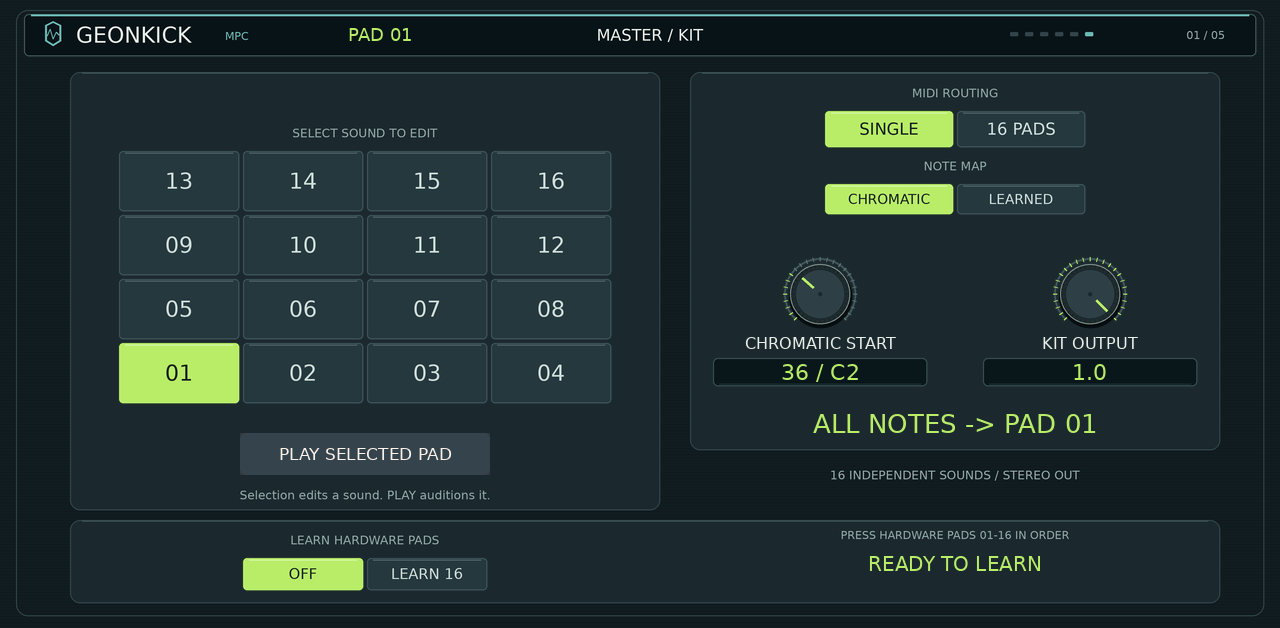
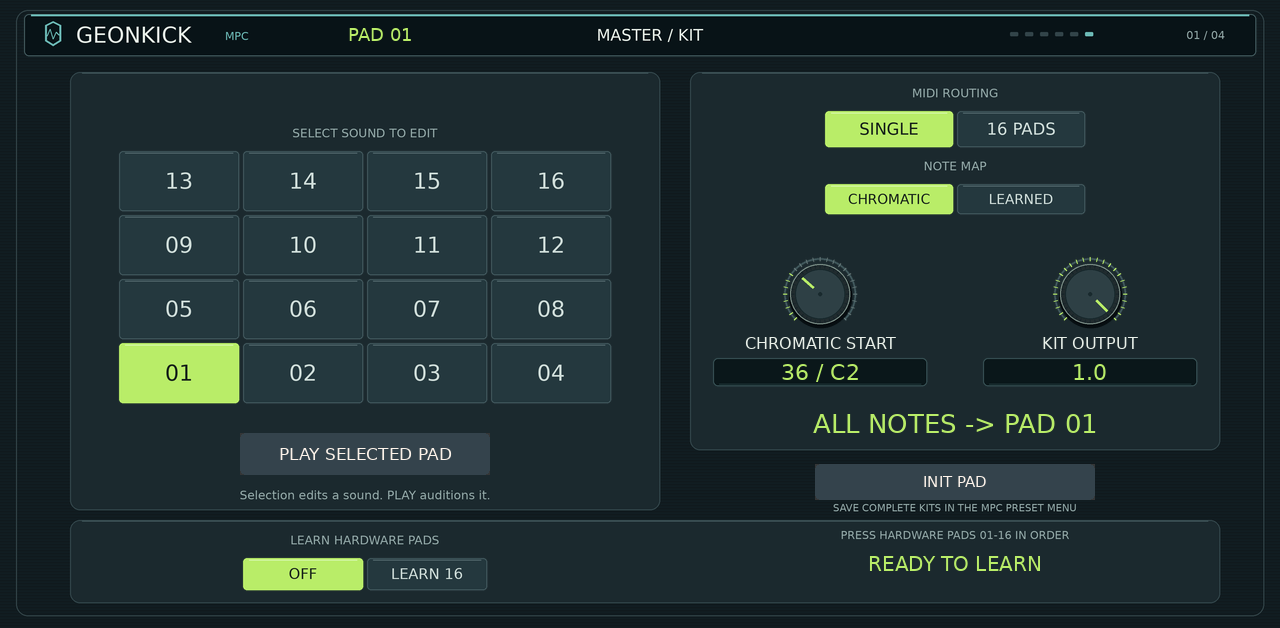
Add native MPC starter presets and complete sixteen-pad kit

Changed region(s): [[0.625, 0.7261, 0.875, 0.8169]]

diff --git a/tests/native_preset_test.c b/tests/native_preset_test.c
@@ -1,0 +1,42 @@
+/* Native factory banks and complete user snapshots through the real VST API. */
+#include "../tools/preset_host.h"
+static const char *names[9]={"0000-Init","0001-Deep Kick","0002-Tight Kick","0003-Snare","0004-Closed Hat","0005-Open Hat","0006-Metal","0007-Tom","1000-Starter Kit (16 Pads)"};
+static void midi(PresetEffect *e,int status,int note,int velocity){
+ struct {int32_t type,size,frame,flags,len,offset;unsigned char msg[4];char pad[4];} m={1,32,0,0,0,0,{status,note,velocity,0},{0}};
+ struct {int32_t n;intptr_t r;void *events[2];} ev={1,0,{&m,NULL}};e->dispatch(e,25,0,0,&ev,0);
+}
+static void audio(PresetEffect *e,float *samples,int frames){for(int n=0;n<frames;n+=128){float l[128],r[128],*out[]={l,r};int count=frames-n<128?frames-n:128;e->render(e,NULL,out,count);for(int i=0;i<count;i++){assert(isfinite(l[i])&&l[i]==r[i]);samples[n+i]=l[i];}}}
+static void signature(PresetEffect *e,float *data){char key[64];for(int c=0;c<432;c++)for(int ch=0;ch<2;ch++){snprintf(key,sizeof key,"viz_%c_%d",ch?'n':'p',c);data[c*2+ch]=preset_get(e,key);}}
+static void match_state(PresetEffect *e,const unsigned char *expected,size_t length){size_t n;unsigned char *state=preset_chunk(e,&n);assert(n==length&&!memcmp(state,expected,n));free(state);}
+static float physical(PresetEffect *e,const char *key){int i=preset_index(key);return PARAMS[i].nopts?preset_get(e,key)*(PARAMS[i].nopts-1):PARAMS[i].min+preset_get(e,key)*(PARAMS[i].max-PARAMS[i].min);}
+int main(void){
+ PresetEffect *e=preset_create();
+ for(int p=0;p<8;p++){
+  /* Loading a native preset is a complete-instance replacement, as in MPC. */
+  preset_set(e,"kit_pad",7);e->dispatch(e,2,0,6,NULL,0);preset_set(e,"kit_mode",1);preset_set(e,"kit_output",.37f);preset_set(e,"o9_sample_on",1);
+  size_t n;unsigned char *state=preset_file(names[p],&n);e->dispatch(e,24,0,n,state,0);match_state(e,state,n);
+  assert(fabsf(preset_get(e,"preset")-p/7.f)<1e-6f);assert(preset_get(e,"kit_pad")==0&&preset_get(e,"kit_mode")==0&&preset_get(e,"kit_output")==1);
+  assert(preset_get(e,"o9_sample_on")==0);
+  if(!p)assert(preset_get(e,"filter_on")==0&&preset_get(e,"drive_on")==0);
+  free(state);
+ }
+ size_t n;unsigned char *kit=preset_file(names[8],&n);e->dispatch(e,24,0,n,kit,0);match_state(e,kit,n);free(kit);
+ assert(preset_get(e,"kit_mode")==1&&physical(e,"kit_base")==36);
+ static const int programs[16]={1,2,3,4,5,6,7,7,1,3,4,5,6,6,7,0};
+ static const float tunes[16]={0,0,0,0,0,0,0,7,-5,3,7,-5,-12,7,-5,12};
+ for(int pad=0;pad<16;pad++){
+  preset_set(e,"kit_pad",pad);assert(fabsf(physical(e,"preset")-programs[pad])<1e-5f);assert(fabsf(physical(e,"tune")-tunes[pad])<1e-5f);
+  PresetEffect *ref=preset_create();float initial[864],expected[864],actual[864];signature(ref,initial);ref->dispatch(ref,2,0,programs[pad],NULL,0);preset_set(ref,"tune",tunes[pad]);
+  int ready=programs[pad]==0;for(int k=0;k<4000&&!ready;k++){signature(ref,expected);ready=memcmp(initial,expected,sizeof initial)!=0;if(!ready)usleep(2000);}assert(ready);signature(ref,expected);
+  ready=0;for(int k=0;k<4000&&!ready;k++){signature(e,actual);ready=!memcmp(actual,expected,sizeof expected);if(!ready)usleep(2000);}assert(ready);
+  float got[1024],oracle[1024];midi(e,0xb0,120,0);midi(ref,0xb0,120,0);midi(e,0x90,36+pad,127);midi(ref,0x90,60,127);audio(e,got,1024);audio(ref,oracle,1024);
+  float energy=0;for(int k=0;k<1024;k++){assert(fabsf(got[k]-oracle[k])<2e-6f);energy+=got[k]*got[k];}assert(energy>1e-5f);preset_close(ref);
+ }
+ /* Host Save serializes the complete kit, including learned layout and GUI focus. */
+ static const int notes[16]={48,50,52,53,55,57,59,36,60,62,64,65,67,69,71,72};
+ preset_set(e,"kit_learn",1);for(int i=0;i<16;i++){float block[128];midi(e,0x90,notes[i],100);audio(e,block,128);}assert(preset_get(e,"kit_mapping")==1);
+ preset_set(e,"kit_pad",14);preset_set(e,"o9_freq",999);preset_set(e,"kit_output",.63f);
+ size_t saved_size;unsigned char *saved=preset_chunk(e,&saved_size);preset_close(e);e=preset_create();e->dispatch(e,24,0,saved_size,saved,0);match_state(e,saved,saved_size);
+ assert(preset_get(e,"kit_mapping")==1&&fabsf(physical(e,"kit_pad")-14)<1e-6f&&fabsf(physical(e,"o9_freq")-999)<.01f);free(saved);preset_close(e);
+ puts("Native8 MPC starter presets +16-pad kit: true Init/full-state replacement, all16 sounds match independent legacy-program audio oracles, learned-map/user-save full close/reopen PASS");return 0;
+}

diff --git a/tools/test.py b/tools/test.py
@@ -17,8 +17,9 @@ if target=='aarch64':
     sysroot=build.LOCAL/'aarch64-linux-gnu'
     if not sysroot.exists():sysroot=build.Path('/usr/aarch64-linux-gnu')
     prefix=[qemu,'-L',sysroot]
-for source,name in [(build.MPC/'tools/host_test.c','host_test'),(build.ROOT/'tests/controls_test.c','controls_test'),(build.ROOT/'tests/realtime_test.c','realtime_test'),(build.ROOT/'tests/ui_load_test.c','ui_load_test'),(build.ROOT/'tests/touch_test.c','touch_test'),(build.ROOT/'tests/engine_test.c','engine_test'),(build.ROOT/'tests/point_editor_test.c','point_editor_test'),(build.ROOT/'tests/free_envelope_test.c','free_envelope_test'),(build.ROOT/'tests/filter_test.c','filter_test'),(build.ROOT/'tests/kit_test.c','kit_test'),(build.ROOT/'tests/sample_data_test.c','sample_data_test'),(build.ROOT/'tests/sample_engine_test.c','sample_engine_test'),(build.ROOT/'tests/sample_vst_test.c','sample_vst_test'),(build.ROOT/'tests/display_context_test.c','display_context_test'),(build.ROOT/'tests/pad_mapping_test.c','pad_mapping_test'),(build.ROOT/'tests/kit_controls_test.c','kit_controls_test'),(build.ROOT/'tests/edge_test.c','edge_test'),(build.ROOT/'tests/focus_echo_test.c','focus_echo_test'),(build.ROOT/'tests/free_chunk_test.c','free_chunk_test'),(build.ROOT/'tests/idle_action_test.c','idle_action_test'),(build.ROOT/'tests/filter_controls_test.c','filter_controls_test')]:
-    if name in ('host_test','controls_test','realtime_test','ui_load_test','touch_test','focus_echo_test','free_chunk_test','idle_action_test','filter_controls_test','kit_controls_test','sample_vst_test','display_context_test'):
+preset_dir=dest/'native-presets';preset_dir.mkdir(exist_ok=True);os.environ['GK_NATIVE_PRESETS']=str(preset_dir)
+for source,name in [(build.ROOT/'tools/export_native_presets.c','export_native_presets'),(build.ROOT/'tests/native_preset_test.c','native_preset_test'),(build.MPC/'tools/host_test.c','host_test'),(build.ROOT/'tests/controls_test.c','controls_test'),(build.ROOT/'tests/realtime_test.c','realtime_test'),(build.ROOT/'tests/ui_load_test.c','ui_load_test'),(build.ROOT/'tests/touch_test.c','touch_test'),(build.ROOT/'tests/engine_test.c','engine_test'),(build.ROOT/'tests/point_editor_test.c','point_editor_test'),(build.ROOT/'tests/free_envelope_test.c','free_envelope_test'),(build.ROOT/'tests/filter_test.c','filter_test'),(build.ROOT/'tests/kit_test.c','kit_test'),(build.ROOT/'tests/sample_data_test.c','sample_data_test'),(build.ROOT/'tests/sample_engine_test.c','sample_engine_test'),(build.ROOT/'tests/sample_vst_test.c','sample_vst_test'),(build.ROOT/'tests/display_context_test.c','display_context_test'),(build.ROOT/'tests/pad_mapping_test.c','pad_mapping_test'),(build.ROOT/'tests/kit_controls_test.c','kit_controls_test'),(build.ROOT/'tests/edge_test.c','edge_test'),(build.ROOT/'tests/focus_echo_test.c','focus_echo_test'),(build.ROOT/'tests/free_chunk_test.c','free_chunk_test'),(build.ROOT/'tests/idle_action_test.c','idle_action_test'),(build.ROOT/'tests/filter_controls_test.c','filter_controls_test')]:
+    if name in ('export_native_presets','native_preset_test','host_test','controls_test','realtime_test','ui_load_test','touch_test','focus_echo_test','free_chunk_test','idle_action_test','filter_controls_test','kit_controls_test','sample_vst_test','display_context_test'):
         if name=='host_test' and build.CFG['defines'].get('ASYNC_HOST_NOTIFY'):
             # The original framework suite assumes synchronous notification.
             # Allow the same checks to await our actual asynchronous UI path.

diff --git a/tools/preset_host.h b/tools/preset_host.h
@@ -1,0 +1,21 @@
+/* Minimal VST2 host ABI for native preset export/tests; GPL-3.0-or-later. */
+#include "params.h"
+#include <stdint.h>
+#include <assert.h>
+#include <math.h>
+#include <stdio.h>
+#include <stdlib.h>
+#include <string.h>
+#include <unistd.h>
+typedef struct PresetEffect PresetEffect;
+typedef intptr_t(*PresetCallback)(PresetEffect*,int32_t,int32_t,intptr_t,void*,float);
+struct PresetEffect {int32_t magic;intptr_t(*dispatch)(PresetEffect*,int32_t,int32_t,intptr_t,void*,float);void*p;void(*set)(PresetEffect*,int32_t,float);float(*get)(PresetEffect*,int32_t);int32_t np,npar,ni,no,flags;intptr_t r1,r2;int32_t a,b,c;float io;void*obj,*user;int32_t uid,ver;void(*render)(PresetEffect*,float**,float**,int32_t);};
+extern PresetEffect *VSTPluginMain(PresetCallback);
+static intptr_t preset_host(PresetEffect*e,int32_t op,int32_t i,intptr_t v,void*p,float o){(void)e;(void)i;(void)v;(void)p;(void)o;return op==1?2400:0;}
+static int preset_index(const char *key){for(int i=0;i<NPARAMS;i++)if(!strcmp(PARAMS[i].key,key))return i;assert(!"unknown parameter");return -1;}
+static void preset_set(PresetEffect *e,const char *key,float v){int i=preset_index(key);e->set(e,i,PARAMS[i].nopts?v/(PARAMS[i].nopts-1):(v-PARAMS[i].min)/(PARAMS[i].max-PARAMS[i].min));}
+static float preset_get(PresetEffect *e,const char *key){return e->get(e,preset_index(key));}
+static PresetEffect *preset_create(void){PresetEffect *e=VSTPluginMain(preset_host);assert(e&&e->magic==0x56737450&&e->ver==PLUG_VERSION);return e;}
+static unsigned char *preset_chunk(PresetEffect *e,size_t *size){void *p=NULL;intptr_t n=e->dispatch(e,23,0,0,&p,0);assert(n>1&&n<=16777216&&p);unsigned char *copy=malloc((size_t)n);assert(copy);memcpy(copy,p,(size_t)n);*size=(size_t)n;return copy;}
+static unsigned char *preset_file(const char *stem,size_t *size){const char *dir=getenv("GK_NATIVE_PRESETS");assert(dir&&*dir);char path[4096];assert(snprintf(path,sizeof path,"%s/%s.chunk",dir,stem)<(int)sizeof path);FILE *f=fopen(path,"rb");assert(f);assert(!fseek(f,0,SEEK_END));long n=ftell(f);assert(n>1&&n<=16777216&&!fseek(f,0,SEEK_SET));unsigned char *p=malloc((size_t)n);assert(p&&fread(p,1,(size_t)n,f)==(size_t)n);fclose(f);assert(p[n-1]==0&&!memcmp(p,"GKMP9 ",6));*size=(size_t)n;return p;}
+static void preset_close(PresetEffect *e){e->dispatch(e,1,0,0,NULL,0);}

diff --git a/tools/native_presets.py b/tools/native_presets.py
@@ -1,0 +1,31 @@
+#!/usr/bin/env python3
+"""Build native MPC Sounds-browser presets from authentic current VST states."""
+import hashlib,json,os,sys,xml.etree.ElementTree as ET
+from pathlib import Path
+import build
+sys.path.insert(0,str(build.MPC/'tools'));import xpl
+ROOT=build.ROOT
+cfg=build.CFG
+folder=f"{cfg['vendor']} - VST - {cfg['name']}"
+skin=ROOT/'build/skin'/folder
+out=ROOT/'build/native-preset-export';out.mkdir(exist_ok=True)
+# Normal native helper and library keep sanitizer runtime out of Python.
+f=build.flags('native');cc=build.compiler('native')
+build.run([cc,*f,'-Itools','-Dmain=plugin_test_main','-c','tools/export_native_presets.c','-o',out/'export.o'])
+build.run([cc,*f,out/'export.o','tests/load_plugin.c','-ldl','-lpthread','-lm','-o',out/'export'])
+os.environ['GK_NATIVE_PRESETS']=str(out)
+build.run([out/'export',ROOT/'build/native'/cfg['so']])
+names=[f'{i:04d}-{name}' for i,name in enumerate(json.loads((ROOT/'params.json').read_text())['params'][8]['options'])]+['1000-Starter Kit (16 Pads)']
+dest=skin/'Presets';dest.mkdir(exist_ok=True)
+uid=int.from_bytes(cfg['uid'].encode(),'big');manifest=[]
+for stem in names:
+ raw=(out/(stem+'.chunk')).read_bytes();assert raw.startswith(b'GKMP9 ') and raw[-1:]==b'\0'
+ name=stem.split('-',1)[1];text=xpl.xpl(cfg['name'],cfg['vendor'],f'%payload-path%/{folder}/{cfg["so"]}',uid,cfg['version'],raw,preset=name)
+ tree=ET.fromstring(text);bank=xpl.b64dec(tree.findtext('state'));assert bank[:4]==b'CcnK' and bank[8:12]==b'FBCh'
+ assert int.from_bytes(bank[16:20],'big')==uid and int.from_bytes(bank[156:160],'big')==len(raw) and bank[160:]==raw
+ assert tree.findtext('preset')==name
+ (dest/(stem+'.xpl')).write_text(text)
+ manifest.append(dict(file=stem+'.xpl',name=name,state_sha256=hashlib.sha256(raw).hexdigest(),bytes=len(raw)))
+(root_default:=dest/'0000-Default.xpl').unlink(missing_ok=True)
+(ROOT/'build/native-preset-manifest.json').write_text(json.dumps(manifest,indent=2)+'\n')
+print('Native MPC browser: Init,7 MPC starter sounds and16-pad starter kit; all9 JUCE/XPL bank payloads verified')

diff --git a/tools/check_native_presets.py b/tools/check_native_presets.py
@@ -1,0 +1,37 @@
+#!/usr/bin/env python3
+"""Validate the actual portable MPC preset files, including their VST chunks."""
+import hashlib,json,sys,xml.etree.ElementTree as ET
+import build
+sys.path.insert(0,str(build.MPC/'tools'))
+import xpl
+
+def check():
+    cfg=build.CFG
+    folder=f"{cfg['vendor']} - VST - {cfg['name']}"
+    directory=build.ROOT/'build/skin'/folder/'Presets'
+    manifest=json.loads((build.ROOT/'build/native-preset-manifest.json').read_text())
+    options=json.loads((build.ROOT/'params.json').read_text())['params'][8]['options']
+    expected=[f'{i:04d}-{name}.xpl' for i,name in enumerate(options)]+['1000-Starter Kit (16 Pads).xpl']
+    assert len(manifest)==9 and [item['file'] for item in manifest]==expected
+    assert sorted(p.name for p in directory.iterdir())==sorted(expected)
+    for item in manifest:
+        tree=ET.parse(directory/item['file']).getroot()
+        plugin=tree.find('PLUGIN')
+        assert plugin is not None
+        assert plugin.get('file')==f'%payload-path%/{folder}/{cfg["so"]}'
+        assert plugin.get('name')==cfg['name'] and plugin.get('manufacturer')==cfg['vendor']
+        assert plugin.get('uid')==cfg['uid'].encode().hex()
+        assert tree.findtext('preset')==item['name']
+        bank=xpl.b64dec(tree.findtext('state'))
+        assert bank[:4]==b'CcnK' and bank[8:12]==b'FBCh'
+        assert int.from_bytes(bank[16:20],'big')==int.from_bytes(cfg['uid'].encode(),'big')
+        assert int.from_bytes(bank[20:24],'big')==cfg['version']
+        raw=bank[160:]
+        assert int.from_bytes(bank[156:160],'big')==len(raw)==item['bytes']
+        assert raw.startswith(b'GKMP9 ') and raw.endswith(b'\0')
+        assert b' KIT1 ' in raw and b' MAP1 ' in raw
+        assert hashlib.sha256(raw).hexdigest()==item['state_sha256']
+        assert raw==(build.ROOT/'build/native-preset-export'/item['file'].replace('.xpl','.chunk')).read_bytes()
+    print('Native MPC presets: exact9 portable XPL files, names/UID/version/full-state payloads and export hashes PASS')
+
+if __name__=='__main__':check()

diff --git a/tools/render_ui.py b/tools/render_ui.py
@@ -47,12 +47,11 @@ try:
     assert not any(ids[p['key']] in reported for p in params if p['key'].startswith('viz_')),'Unexpected per-column graph feedback'
     osc_tab=next(t for t in page['tabs'] if t['fnKeyIndex']==1 and t['fnKeySubIndex']==0)
     env_tab=next(t for t in page['tabs'] if t['componentName']=='ENVELOPE|ENVELOPE')
-    preset_tab=next(t for t in page['tabs'] if t['componentName']=='PRESETS|PRESETS')
     mix_tab=next(t for t in page['tabs'] if t['componentName']=='SYNTH|MIX')
     kit_tab=next(t for t in page['tabs'] if t['componentName']=='KIT|KIT')
     sample_tab=next(t for t in page['tabs'] if t['componentName']=='SAMPLES|SAMPLES')
     fx_tab=next(t for t in page['tabs'] if t['componentName']=='EFFECTS|EFFECTS')
-    for filename,tab,wave in [('presets',preset_tab,0),('mix',mix_tab,0),('master-fx',fx_tab,0),('kit',kit_tab,0),('samples',sample_tab,0),('synth',page['tabs'][0],0),('synth-layer2',page['tabs'][0],0),('synth-layer3',page['tabs'][0],0),('osc-tone',osc_tab,0),('osc-noise',osc_tab,4),('osc-sample',osc_tab,0),('envelope-simple',env_tab,0),('envelope-amp',env_tab,0),('envelope-pitch',env_tab,0),('envelope-free',env_tab,0)]:
+    for filename,tab,wave in [('mix',mix_tab,0),('master-fx',fx_tab,0),('kit',kit_tab,0),('samples',sample_tab,0),('synth',page['tabs'][0],0),('synth-layer2',page['tabs'][0],0),('synth-layer3',page['tabs'][0],0),('osc-tone',osc_tab,0),('osc-noise',osc_tab,4),('osc-sample',osc_tab,0),('envelope-simple',env_tab,0),('envelope-amp',env_tab,0),('envelope-pitch',env_tab,0),('envelope-free',env_tab,0)]:
         if filename.startswith('synth'):
             set_value('layer2',.75);set_value('o4_freq',300);set_value('o4_attack',.08)
             set_value('layer3',.8);set_value('o7_wave',2);set_value('o7_freq',1000);set_value('o7_decay',.15)

diff --git a/tools/check_sound_overview.py b/tools/check_sound_overview.py
@@ -8,8 +8,8 @@ p=next((ROOT/'build/skin').glob('*/Plugin Skins/TUI.json'));page=json.loads(p.re
 assert len(params)==4096
 old=json.loads(subprocess.check_output(['git','show','40b5a7d:params.json'],cwd=ROOT))['params'];assert params[:3985]==old[:3985]
 assert params[3992:]==old[3992:]
-assert len(page['tabs'])==25
-assert [sum(t['fnKeyIndex']==i for t in page['tabs']) for i in range(6)]==[1,6,6,6,1,5]
+assert len(page['tabs'])==24
+assert [sum(t['fnKeyIndex']==i for t in page['tabs']) for i in range(6)]==[1,6,6,6,1,4]
 q=json.loads((p.parent/'Q-Links.json').read_text());maps=q['Screen Mode Q-Links']['map']
 assert {(m['Tab']-1,m['SubTab']-1) for m in maps}=={(t['fnKeyIndex'],t['fnKeySubIndex']) for t in page['tabs']}
 children=defs['SYNTH|LAYER 1']['componentsData'];selector=[c for c in children if c['componentData']['type']=='gkSoundLayerSelect'];assert len(selector)==1
@@ -40,4 +40,5 @@ for definition in defs.values():
    for match in re.finditer(r'Parameter (\d+)',handle):assert int(match[1])<4096
 for t in page['tabs']:
  assert not any(c['componentData']['type']=='gkViewMarker' for c in defs[t['componentName']]['componentsData'])
-print('25 native pages, three explicit conditional SOUND panels,432 columns, rotary-only Q-Links/full frames, no caption inference, all handles<=4095 PASS')
+assert all(t['componentName']!='PRESETS|PRESETS' for t in page['tabs'])
+print('24 native pages, three explicit conditional SOUND panels,432 columns, rotary-only Q-Links/full frames, no caption inference, all handles<=4095 PASS')

diff --git a/tools/skin_design.py b/tools/skin_design.py
@@ -91,7 +91,7 @@ def panel_background(layout,bank,children,defs,skin):
         text(d,(90,240),'WAVEFORM + ENVELOPE',13,MUTED,'lm');text(d,(1190,240),'SELECT POINT NUMBER / DRAG AMBER POINT',12,AMBER,'rm')
     elif name=='KIT':
         card((70,72,660,510));card((690,72,1220,450));card((70,520,1220,603))
-        text(d,(955,475),'16 INDEPENDENT SOUNDS / STEREO OUT',12,MUTED)
+        text(d,(955,508),'SAVE COMPLETE KITS IN THE MPC PRESET MENU',10,MUTED)
         text(d,(955,535),'PRESS HARDWARE PADS 01-16 IN ORDER',11,MUTED)
         text(d,(365,495),'Selection edits a sound. PLAY auditions it.',12,MUTED)
     elif name=='SAMPLES':
@@ -171,7 +171,7 @@ def main():
         if source.startswith('LAYER'):title=source+' / '+bank.split(' ',1)[1]
         text(d,(650,35),title,16,INK)
         for k in range(6):box(d,(1010+k*15,32,1018+k*15,36),accent if k==tab['fnKeyIndex'] else '#324449',None,1)
-        count=sum(t['fnKeyIndex']==tab['fnKeyIndex'] for t in page['tabs']);text(d,(1225,35),f'{tab["fnKeySubIndex"]+1:02d} / {count:02d}',11,MUTED,'rm');save(im,file)
+        count=sum(t['fnKeyIndex']==tab['fnKeyIndex'] and not(tab['fnKeyIndex']==5 and t['componentName']=='PRESETS|PRESETS') for t in page['tabs']);text(d,(1225,35),f'{tab["fnKeySubIndex"]+1:02d} / {count:02d}',11,MUTED,'rm');save(im,file)
     # Dense display geometry and its shared revision binding are unchanged.
     im=Image.new('RGB',(1100,170),'#0b1a1f');d=ImageDraw.Draw(im)
     for j in range(9):x=18+round(j*1064/8);d.line((x,18,x,152),fill='#20383e')

diff --git a/tools/export_native_presets.c b/tools/export_native_presets.c
@@ -1,0 +1,21 @@
+/* Export authentic complete native states, not guessed parameter arrays. GPL-3.0-or-later. */
+#include "preset_host.h"
+static void save(PresetEffect *e,const char *stem){
+ const char *dir=getenv("GK_NATIVE_PRESETS");assert(dir&&*dir);char path[4096];assert(snprintf(path,sizeof path,"%s/%s.chunk",dir,stem)<(int)sizeof path);
+ size_t size;unsigned char *p=preset_chunk(e,&size);assert(!memcmp(p,"GKMP9 ",6));FILE *f=fopen(path,"wb");assert(f&&fwrite(p,1,size,f)==size);assert(!fclose(f));free(p);
+}
+int main(void){
+ for(int program=0;program<8;program++){
+  PresetEffect *e=preset_create();char name[64]={0},stem[96];assert(e->dispatch(e,29,program,0,name,0));
+  assert(*name&&!strchr(name,'/')&&!strchr(name,'\\'));e->dispatch(e,2,0,program,NULL,0);assert(e->dispatch(e,3,0,0,NULL,0)==program);
+  snprintf(stem,sizeof stem,"%04d-%s",program,name);save(e,stem);preset_close(e);
+ }
+ PresetEffect *kit=preset_create();
+ static const int programs[16]={1,2,3,4,5,6,7,7,1,3,4,5,6,6,7,0};
+ static const float tunes[16]={0,0,0,0,0,0,0,7,-5,3,7,-5,-12,7,-5,12};
+ for(int pad=0;pad<16;pad++){
+  preset_set(kit,"kit_pad",pad);kit->dispatch(kit,2,0,programs[pad],NULL,0);preset_set(kit,"tune",tunes[pad]);
+ }
+ preset_set(kit,"kit_mode",1);preset_set(kit,"kit_pad",0);save(kit,"1000-Starter Kit (16 Pads)");preset_close(kit);
+ puts("Exported8 complete native sound presets +16-pad starter kit from actual VST chunks");return 0;
+}

diff --git a/tools/sound_overview.py b/tools/sound_overview.py
@@ -44,10 +44,10 @@ combined.append(shadow_skin._placed('gkSoundLayerSelect','Layer',ids['sound_laye
 defs['SYNTH|LAYER 1']['componentsData']=combined
 for definition in page['componentDefinitions']['localComponentDefinitions']:
  definition['value']['componentsData']=[c for c in definition['value'].get('componentsData',[]) if c['componentData']['type']!='gkViewMarker']
-page['tabs']=[t for t in page['tabs'] if not(t['fnKeyIndex']==0 and t['fnKeySubIndex']>0)]
+page['tabs']=[t for t in page['tabs'] if not(t['fnKeyIndex']==0 and t['fnKeySubIndex']>0) and t['componentName']!='PRESETS|PRESETS']
 sound=next(t for t in page['tabs'] if t['fnKeyIndex']==0);sound['tabName']='SOUND'
 qpath=p.parent/'Q-Links.json';q=json.loads(qpath.read_text());maps=q['Screen Mode Q-Links']['map']
-q['Screen Mode Q-Links']['map']=[m for m in maps if not(m['Tab']==1 and m['SubTab']>1)]
+q['Screen Mode Q-Links']['map']=[m for m in maps if not(m['Tab']==1 and m['SubTab']>1) and not(m['Tab']==6 and m['SubTab']==5)]
 replacements={ids[f'o{slot}_{suffix}']:ids[f'sound_o{slot}_{suffix}'] for slot in range(1,4) for suffix in ('freq_fine','level')}
 for mapping in q['Screen Mode Q-Links']['map']:
  if mapping['Tab']==1:

diff --git a/tools/build.py b/tools/build.py
@@ -60,7 +60,7 @@ def build(target,sanitize=False):
     run([compiler(target),*flags(target,sanitize),'-shared',*objects,'-lpthread','-lm','-ldl','-Wl,--no-undefined','-Wl,--gc-sections','-Wl,--version-script=src/exports.map','-o',dest/CFG['so']])
     print('Built',dest/CFG['so'],flush=True);return objects
 def skin():
-    prepare()
+    build('native') # native presets are exported from this exact engine build
     run([sys.executable,'tools/tile.py'])
     run([sys.executable,'tools/plot_assets.py'])
     run(['gcc','-O2','-I'+str(MPC/'tools/vendor/force-shadow/tools'),MPC/'tools/shadow_art.c','-lm','-o','build/shadow_art'])
@@ -74,6 +74,8 @@ def skin():
     run([sys.executable,'tools/check_navigation.py'])
     run([sys.executable,'tools/sound_overview.py'])
     run([sys.executable,'tools/check_sound_overview.py'])
+    run([sys.executable,'tools/native_presets.py'])
+    run([sys.executable,'tools/check_native_presets.py'])
     folder=ROOT/'build/skin'/f"{CFG['vendor']} - VST - {CFG['name']}"/'Plugin Skins'
     run([sys.executable,MPC/'tools/studio.py','preview',folder,'-o',ROOT/'build/preview_%d.png'])
 if __name__=='__main__':

diff --git a/tools/package.py b/tools/package.py
@@ -7,6 +7,7 @@ root=build.ROOT
 ap=argparse.ArgumentParser(description=__doc__);ap.add_argument('--desktop',action='store_true',help='Explicitly copy installer to Desktop');ap.add_argument('--no-desktop',action='store_true',help=argparse.SUPPRESS);args=ap.parse_args()
 cfg=json.loads((root/'release.json').read_text())
 build.run([sys.executable,'tools/check_sound_overview.py'])
+build.run([sys.executable,'tools/check_native_presets.py'])
 release_tools=Path(os.environ.get('MPC_RELEASE_TOOLS',root.parent/cfg.get('tools_dir','mpc-vst-plugins-release-tools')))
 ref=subprocess.check_output(['git','-C',str(release_tools),'rev-parse','HEAD'],text=True).strip()
 assert ref==cfg['tools_ref'],'Unexpected release tooling revision'
